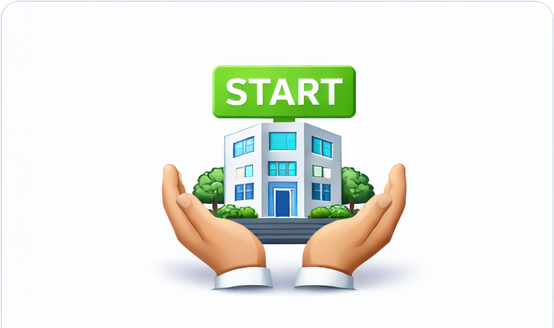
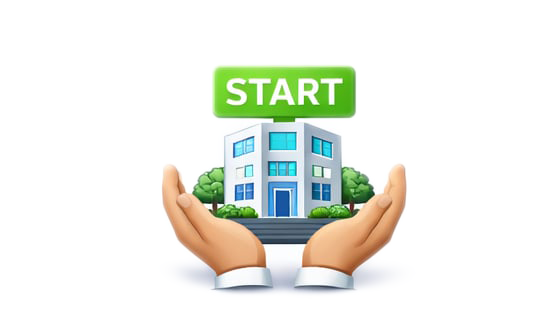
fixed images2

diff --git a/app/Home.tsx b/app/Home.tsx
@@ -40,10 +40,10 @@ export default function Home() {
         "group overflow-hidden rounded-2xl border border-slate-200 bg-white p-3 shadow-sm transition hover:shadow-md dark:border-zinc-700 dark:bg-zinc-900"
 
     const quickItemImageWrapClass =
-        "flex h-[120px] items-center justify-center overflow-hidden rounded-xl bg-slate-50 dark:bg-zinc-800 sm:h-[128px]"
+        "flex h-[120px] items-center justify-center overflow-hidden rounded-xl bg-transparent dark:bg-transparent sm:h-[128px]"
 
     const quickItemImageClass =
-        "max-h-[92px] w-auto object-contain transition duration-300 group-hover:scale-105 sm:max-h-[100px]"
+        "max-h-[110px] w-auto object-contain transition duration-300 group-hover:scale-125 sm:max-h-[120px]"
 
     const quickItemTextClass =
         "flex min-h-[72px] items-center justify-center px-2 pt-3 text-center text-[16px] font-semibold leading-7 text-slate-800 dark:text-zinc-100"
